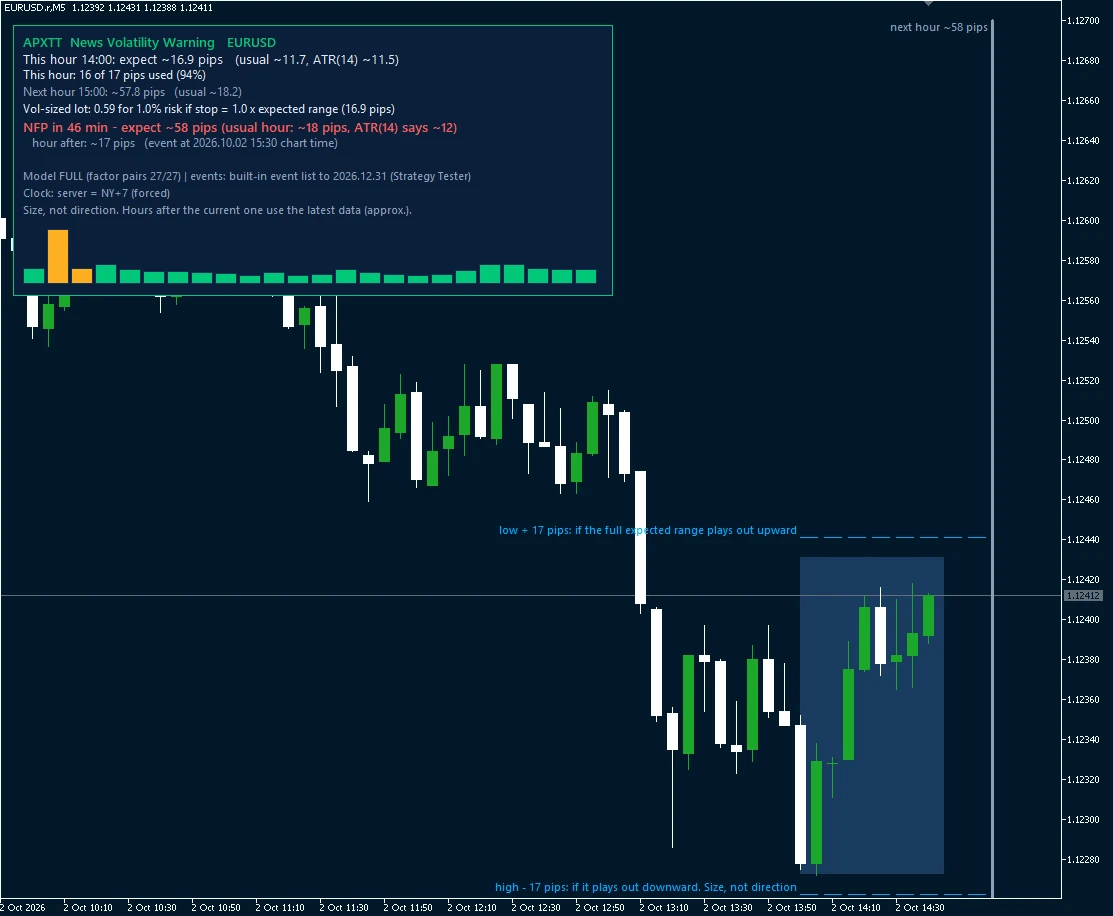
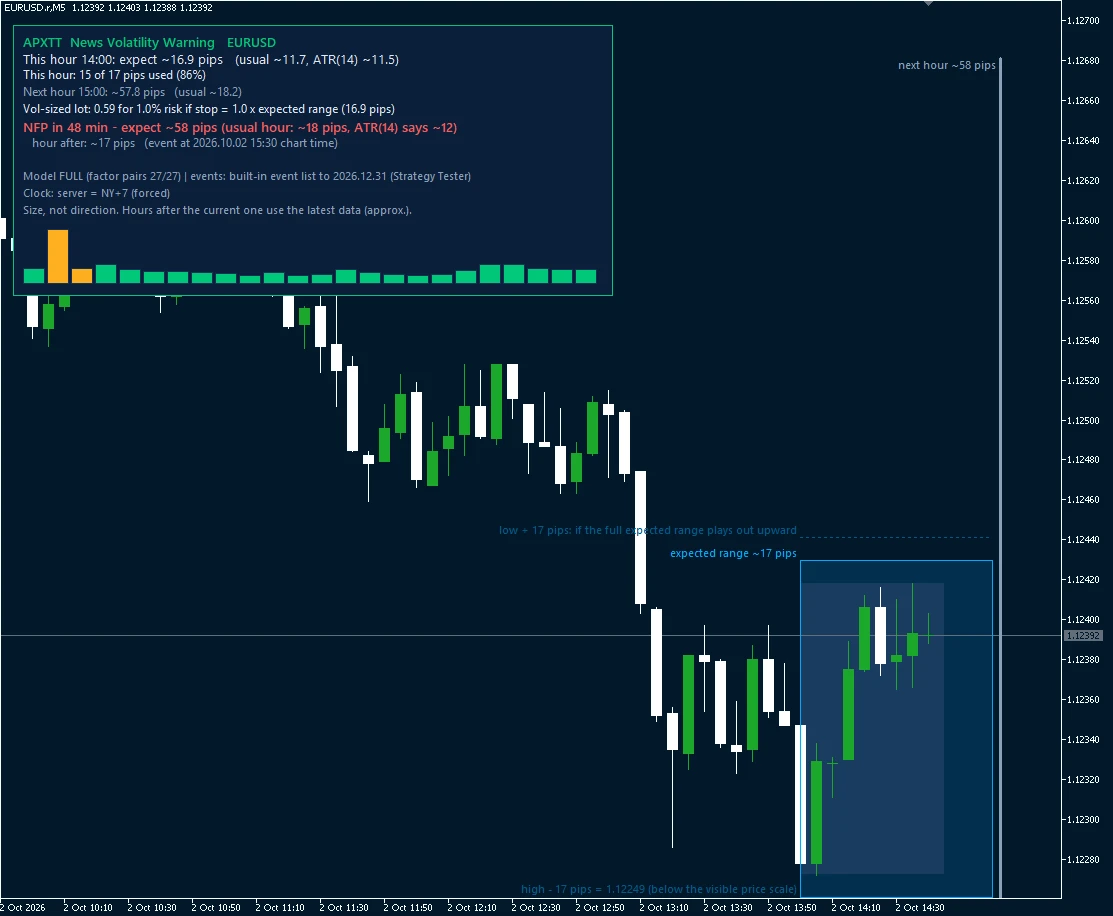
Indicator band screenshots + captions

Changed region(s): [[0.4277, 0.0611, 0.9164, 0.9782], [0.947, 0.6419, 1.0, 0.7031], [0.5193, 0.5502, 0.5499, 0.5808]]

diff --git a/news-volatility.html b/news-volatility.html
@@ -104,28 +104,26 @@
     <h2>What you see on your chart</h2>
     <p class="shots-intro">Three moments of the same US jobs report (NFP), in MetaTrader&nbsp;5's Strategy Tester: a replay of
       2&nbsp;Oct&nbsp;2026 on real data, not a live chart and not a performance record. The panel shows how much of this hour's
-      expected range has been used and a lot size scaled to it. On the chart, the shaded box is the range traded so far
-      this hour; the dashed lines are the hour's low + the expected range and the hour's high &minus; the expected range,
-      both moving live; the grey bar on the right is the next hour's expected size.</p>
+      expected range has been used and a lot size scaled to it. On the chart, the blue band is the expected range, centred on
+      the middle of what has traded this hour and moving with it; the faint lines are the hour's low + the expected range and
+      the hour's high &minus; the expected range; the grey bar on the right is the next hour's expected size.</p>
     <div class="shots">
       <figure class="shot">
-        <a href="assets/proj-before-nfp.webp"><img src="assets/proj-before-nfp.webp" alt="MT5 M5 chart of EURUSD at 14:43, 47 minutes before NFP: panel says this hour 16 of 17 pips used, NFP in 47 minutes, expect about 58 pips; dashed lines at hour low + 17 and hour high - 17 pips; a tall bar marks the next hour at about 58 pips" loading="lazy" decoding="async" width="1113" height="916"></a>
-        <figcaption><strong>47 minutes before NFP.</strong> This hour: 16 of 17 pips used. The dashed lines show where price
-          gets to if the full 17-pip range plays out up or down: not a target. The tall bar on the right: the next hour,
-          the NFP hour, is expected at ~58 pips. The vol-sized lot (1% risk, stop = expected range) is 0.59 here and
-          0.17 in the NFP hour.</figcaption>
+        <a href="assets/proj-before-nfp.webp"><img src="assets/proj-before-nfp.webp" alt="MT5 M5 chart of EURUSD at 14:42, 48 minutes before NFP: panel says this hour 15 of 17 pips used; a band of about 17 pips centred on the hour's range; a tall grey bar marks the next hour at about 58 pips" loading="lazy" decoding="async" width="1113" height="916"></a>
+        <figcaption><strong>48 minutes before NFP.</strong> This hour: 15 of 17 pips used. The band is the 17-pip expected
+          range, centred on what has traded. The tall bar on the right: the next hour, the NFP hour, is expected at ~58 pips.
+          The vol-sized lot (1% risk, stop = expected range) is 0.59 here and 0.17 in the NFP hour.</figcaption>
       </figure>
       <figure class="shot">
-        <a href="assets/proj-mid-nfp.webp"><img src="assets/proj-mid-nfp.webp" alt="MT5 M5 chart of EURUSD at 15:57, 27 minutes after the NFP release: this hour 40 of 56 pips used; dashed lines at hour low + 56 and hour high - 56 pips" loading="lazy" decoding="async" width="1113" height="916"></a>
-        <figcaption><strong>27 minutes after the release.</strong> This hour: 40 of 56 pips used (71%). Hour low + 56 and hour
-          high &minus; 56 mark where price gets to if the full expected range plays out up or down; which way it goes, the
-          indicator does not say. Price axis compressed by hand so both lines fit.</figcaption>
+        <a href="assets/proj-mid-nfp.webp"><img src="assets/proj-mid-nfp.webp" alt="MT5 M5 chart of EURUSD at 15:56, 26 minutes after the NFP release: this hour 40 of 56 pips used; a tall band of about 56 pips around the hour's range, its bottom edge just below the visible price scale" loading="lazy" decoding="async" width="1113" height="916"></a>
+        <figcaption><strong>26 minutes after the release.</strong> This hour: 40 of 56 pips used (71%). The band shows the full
+          expected range around what has traded so far; which way the rest goes, the indicator does not say. Where an edge
+          falls off MT5's price scale, a note shows its price.</figcaption>
       </figure>
       <figure class="shot">
-        <a href="assets/proj-exceeded.webp"><img src="assets/proj-exceeded.webp" alt="MT5 M5 chart of EURUSD at about 16:57, the hour after NFP: this hour 30 of 27 pips used (112%), range exceeded, lines and labels in amber" loading="lazy" decoding="async" width="1113" height="916"></a>
-        <figcaption><strong>The hour after: range exceeded.</strong> 30 of 27 pips traded (112%), so the lines turn amber:
-          the expected size is already reached. It says nothing about whether the move continues. Price axis compressed
-          by hand.</figcaption>
+        <a href="assets/proj-exceeded.webp"><img src="assets/proj-exceeded.webp" alt="MT5 M5 chart of EURUSD at 16:58, the hour after NFP: this hour 32 of 27 pips used, range exceeded, band in amber" loading="lazy" decoding="async" width="1113" height="916"></a>
+        <figcaption><strong>The hour after: range exceeded.</strong> 32 of 27 pips traded, so the band turns amber and the
+          faint lines disappear: the expected size is already reached. It says nothing about whether the move continues.</figcaption>
       </figure>
     </div>
     <p class="fine shots-note">Replay of 2 Oct 2026, tester (MT5 Strategy Tester, real EURUSD minute data). Size, not
